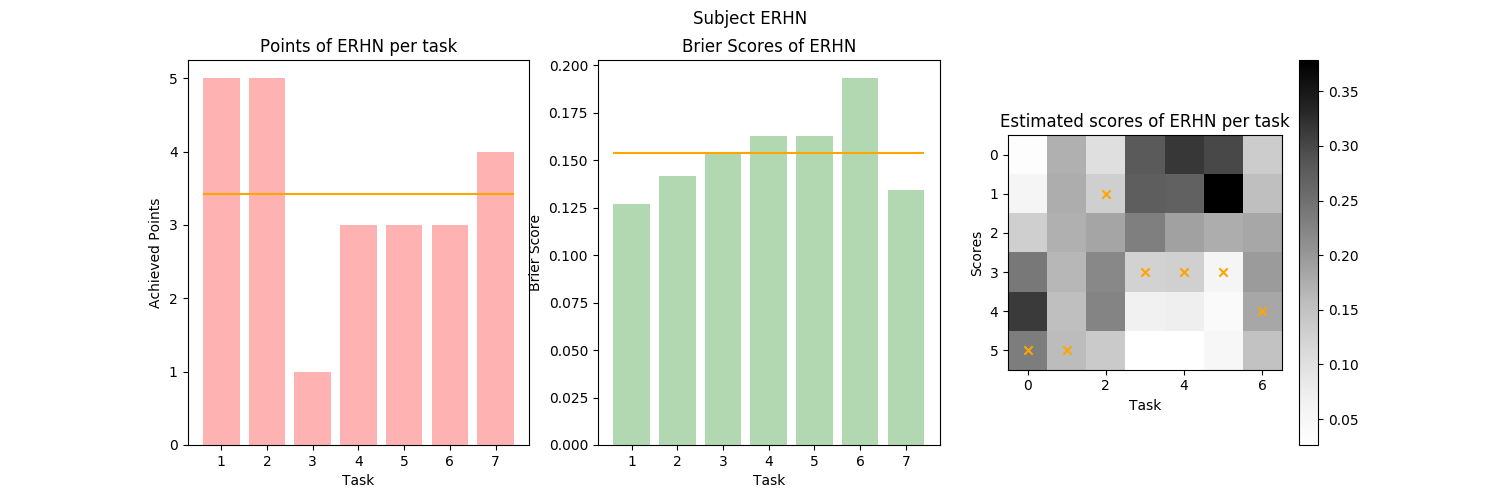
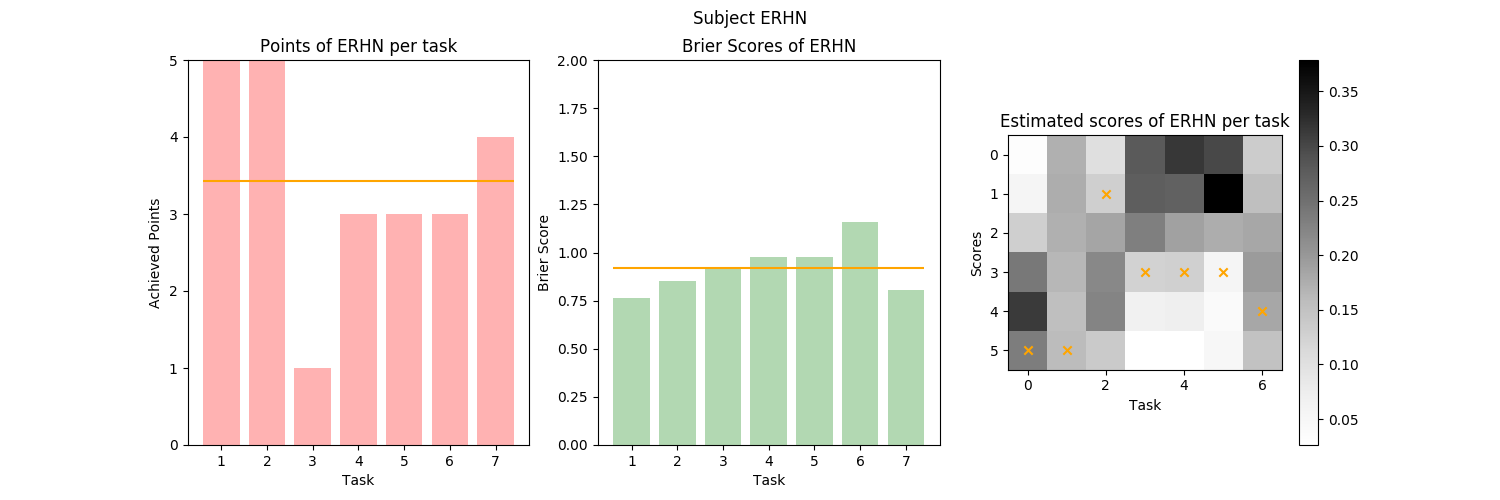
Added another evaluation function && updated report

diff --git a/report/acs_report_frisch_gehrke/sections/introduction.tex b/report/acs_report_frisch_gehrke/sections/introduction.tex
@@ -24,16 +24,15 @@
 		\captionsetup{justification=centering}
 		\includegraphics[width=0.5\textwidth]{../assets/d_dash.png}
 		\includegraphics[width=0.45\textwidth]{../assets/type1_roc.png}
-		\caption{The left side of this figure shows an example for the d' measurement, calculated as the difference between the (inverse of) the hit rate (HR) and the false alarm rate (FA). The right side displays an example for a type-2 ROC curve. [TODO: MAKE OWN PLOTS!]} 
+		\caption{The left side of this figure shows an example for the d' measurement, calculated as the difference between the (inverse of) the hit rate (HR) and the false alarm rate (FA). The right side displays an example for a type-2 ROC curve, displaying the relationship between FA2 and HR2. The area under the ROC, called \textit{AUROC} gives a measurement of a subject's metacognitive sensitivity.} 
 		\label{fig:d_dash_and_roc}
 	\end{figure}
 	Despite this advantage, $d'$ can not easily applied to the type-2 data, because it includes assumptions of gaussian distributions with equal variance, which is very unlikely to be the case in type-2 data, as shown by [x]. Experiments of these authors showed that it is indeed affected by changes in the metacognitive bias.\\
 	One way to remove this issue is the use of non-parametric analysis, that does not make these assumptions, e.g. the \textit{Receiver operating characteristic (ROC)} analysis [x] in classic SDT. This approach can be applied to type-2 data and an example is given in the right part of figure \ref{fig:d_dash_and_roc}\\
 	A further complication for using the above methods to measure metacognitive sensitivity is the fact that all these measures are affected by the task performance (HOW?) [x]. This can be addressed by explicitly modeling the connection between a subject's performance and metacognition in a model-based approach. The \textit{meta-$d'$} measure [x] makes use of the fact that given gaussian variance assumptions at type-1 level, the shapes of the type-2 distributions are known even if they are not themselves gaussian. Therefore the optimal type-2 performance is constrained by one's type-1 performance. E.g. given a particular type-1 variance structure and bias, the form of the type-2 ROC can be completely determined. So, given a subject's actual type-2 performance, one could reconstruct the underlying type-1 sensitivity, labeled meta-$d'$ [x], that is robust to changes in the bias and recovers simulated changes in metacognitive sensitivity, e.g. by altering task difficulties. For a metacognitive ideal observer, meta-$d'$ should be equal to $d'$. To measure this quantity, [x] defined \textit{metacognitive efficiency} as the ratio of meta-$d'/d'$, or by the more stable variants meta-$d'-d'$ or $log$meta-$d'/d'$. However, this measurement is unable to discriminate between different causes of a change in metacognitive efficiency. For example,  trial-to-trial variability in the placement of confidence criteria results in decreasing efficiency as well as additional noise in the evidence used to make the confidence rating. A similar bias-free approach to model metacognitive accuracy is the \textit{Stochastic Detection and Retrieval Model (SDRM)} which we do not want to cover here.\\
-	A somewhat different approach uses so-called \textit{one-shot} discrepancy measures to quantify metacognition [x]. A general confidence rating (e.g. asked before the trial) is compared to the actual performance on a variety of tasks, but it should be clear from the above (WHY?) that using a single rating of performance will not result in a good distinction between the bias and sensitivity, nor will it enable to measure the efficiency. In contrast, collecting trial-by-trial measures of performance and metacognitive judgments allows to get a picture of an individuals bias, sensitivity and efficiency.\\
+	A somewhat different approach uses so-called \textit{one-shot} discrepancy measures to quantify metacognition [x]. A general confidence rating (e.g. asked before the trial) is compared to the actual performance on a variety of tasks, but it should be clear from the above that using a single rating of performance will not result in a good distinction between the bias and sensitivity, nor will it enable to measure the efficiency. In contrast, collecting trial-by-trial measures of performance and metacognitive judgments allows to get a picture of an individuals bias, sensitivity and efficiency.\\
 	To get a different view-point on the domain, one could formalize metacognitive confidence as the ability to make good probability judgments directed towards the accuracy of one's own actions.
 	
-	\newpage
 	\subsection{Formalizing metacognition as probability judgments}
 	
 	In this framework \textit{metacognition} gets a normative interpretation as the accuracy of a probability judgment about one's own performance and one advantage is the possibility to elicit a meaningful measure of the bias. A lot of literature is a available on how to measure this accuracy, but in the following we want to focus on one of them, called the \textit{Brier Score}. To define this score, [x] first defined the \textit{Probability Score (PS)} as the squared difference between a probability rating $f$ for an event, and it's actual occurrence $c$ (0 or 1 for binary events):
@@ -67,7 +66,12 @@
 		\includegraphics[width=0.55\textwidth]{../assets/calibration_curve.png}
 		\caption{TODO: CAPTION} 
 		\label{fig:calibration}
-	\end{figure}\\
+	\end{figure}
+	For multiple possible outcome classes, the brier score can be calculated as shown by [x] by summing over all classes $j$:
+	\begin{displaymath}
+		BS = \frac{1}{N}\sum_j\sum_i(f_{ij} - c_{ij})^2
+	\end{displaymath}
+	Note that this formulation does have a range of scores from 0.0 to 2.0, where the analogue values of the one-class formulation are twice as high, e.g. a brier score of 0.5 in the one-class case would correspond to a score of 1.0 in the multi-class formulation.\\
 	The next chapter gives explains our methods to actually capture a subjects confidence and calculate a measure of the brier score out of it. We present an experiment that we evaluated on several subjects for different tasks, before we display the results of our measurements in chapter \ref{sec:results} and finally come to a conclusion on our attempt to measure metacognition in chapter \ref{sec:discussion}.
 	
 

diff --git a/report/acs_report_frisch_gehrke/sections/results.tex b/report/acs_report_frisch_gehrke/sections/results.tex
@@ -33,7 +33,34 @@ We did individual evaluations of our subjects' task performance, brier scores an
 	\caption{Example graphic of our individual evaluations for subject \textit{ERHN}. We again plotted the achieved discrete scores per task on the left and the calculated brier-scores per task in the middle. The orange line displays the mean values for both bar plots, averaged over all tasks. The subject's estimated discrete probabilities of achieving a score are shown in the right graphic, where the orange x marks the actual achieved score in the task. [TODO: FIX X-RANGE OF RIGHT PLOT!]. One could already conclude a tendency of this subject to give underconfident ratings.}
 	\label{fig:erhn_results} 
 \end{figure}
-\subsection{Overal Confidence}
+\subsection{Confidence Plots}
+To get more compact insights about our subjects' confidence, we also created scatter plots of the type (Expected Rating) vs (Actual Rating), see figure \ref{fig:erhn_confidence} for an example. A subject's expected rating for a task is calculated out of one column of his or her probability matrix, see the above subsection for an example. The individual plots for all our subjects can be found in appendix \ref{appendix:individual_evaluations}.
+\begin{figure}[h]
+	\centering
+	\captionsetup{justification=centering}
+	\includegraphics[width=\textwidth]{../assets/ERHN_calibration.png}
+	\caption{Example graphic of our individual evaluations on the confidence of subject \textit{ERHN}. We created a scatter plot with the subject's expected rating for each task on the x-axis and his or her actual achieved rating on the y-axis. Optimal confidence is indicated by the solid black line, where expectation meets the actual outcome. Scatter plots of tasks above this line indicate underconfidence for a task, while scatter plots below the line are a sign of overconfidence.}
+	\label{fig:erhn_confidence} 
+\end{figure}
+These average confidence per task is also displayed in figure \ref{fig:avg_confidence}.
+\begin{figure}[h]
+	\centering
+	\captionsetup{justification=centering}
+	\includegraphics[width=\textwidth]{../assets/average_calibration.png}
+	\caption{Scatter plot of average (Expected Rating) vs (Actual Rating) relationship with error bars in both dimensions. Note that the errors are not actual lines around the scores, but the ratings are very likely to be inside the ellipsoids spanned by these standard deviation error bars.}
+	\label{fig:avg_confidence} 
+\end{figure}
+Because we might have found a coincidence between the performance on a task and the confidence of a subject about his rating, we try to get further insights into this by our next evaluation, presented in the next subsection.
 \subsection{Task performance vs Brier Score}
-\subsection{Calibrations}
+To further examine a possible relationship as stated above, we also show the average relationship of (Task Performance) vs (Brier Score) in figure \ref{fig:tp_vs_bs}.
+\begin{figure}[h]
+	\centering
+	\captionsetup{justification=centering}
+	%\includegraphics[width=\textwidth]{../assets/average_calibration.png}
+	\caption{TODO: CAPTION}
+	\label{fig:tp_vs_bs} 
+\end{figure}
+\subsection{Overal Estimation}
+We also asked our subjects to draw their confidence about the overall performance on the questionnaire. The plots can be found in the filled questionnaires in appendix \ref{appendix:filled_questionaires}, but are not used in our evaluations. The values of these pdfs could be used in further experiments on the topic.
+
 \end{document}

diff --git a/src/brier_vs_rating_evaluation.py b/src/brier_vs_rating_evaluation.py
@@ -1,5 +1,9 @@
 import src.utils
+import sys
+import numpy as np
+import matplotlib.pyplot as plt
 from src.data_reader import read_csv_files
+from sklearn.linear_model import LinearRegression
 
 __author__ = 'Yannik P. Frisch, Maximilian A. Gehrke'
 __date__ = '12-03-2020'
@@ -17,4 +21,54 @@ subjects, subject_task_scores, subject_brier_scores, subject_probs, max_score = 
 
 # --------------- EVALUATE DATA --------------- #
 def plot_rating_vs_brier():
-    ...
+
+    # -------------------- Gather Data --------------------
+
+    # (task x subject) matrix of brier scores
+    brier_scores_matrix = np.empty(shape=(1, len(subject_task_scores.get(subjects[0]))))
+    # (task x subject) matrix of task scores
+    task_scores_matrix = np.empty(shape=(1, len(subject_task_scores.get(subjects[0]))))
+    for s in subjects:
+        brier_scores_matrix = np.concatenate((brier_scores_matrix,
+                                              np.array(list(subject_brier_scores.get(s).values())).reshape(1, -1)),
+                                             axis=0)
+        task_scores_matrix = np.concatenate((task_scores_matrix,
+                                             np.array(list(subject_task_scores.get(s).values())).reshape(1, -1)),
+                                            axis=0)
+    # Delete initial rows
+    brier_scores_matrix = np.copy(brier_scores_matrix[1:, :])
+    task_scores_matrix = np.copy(task_scores_matrix[1:, :])
+
+    # Get averages
+    avg_brier_per_task = np.mean(brier_scores_matrix, axis=0).reshape(-1, 1)
+    avg_score_per_task = np.mean(task_scores_matrix, axis=0).reshape(-1, 1)
+
+    # Fit linear regression function
+    reg = LinearRegression().fit(avg_score_per_task, avg_brier_per_task)
+    reg.score(avg_score_per_task, avg_brier_per_task)
+
+    # Plot values and linear fit
+    plt.figure(figsize=(10, 5))
+    plt.title("Task Score vs Brier Score")
+    color = plt.get_cmap('rainbow', len(avg_brier_per_task))
+    colors = color(np.linspace(0, 1, len(avg_brier_per_task)))
+    for t in range(0, len(avg_brier_per_task)):
+        task_color = colors[t].reshape(1, -1).squeeze()
+        plt.scatter(avg_score_per_task[t], avg_brier_per_task[t], label=f'Task {t+1}', c=task_color)
+    xs = np.linspace(min(avg_score_per_task), max(avg_score_per_task), 100)
+    ys = np.array([reg.predict(x.reshape(1, -1)) for x in xs]).reshape(-1, 1)
+    plt.plot(xs, ys, color='black', ls='--', label='Regression fit')
+    plt.legend()
+    plt.xlabel("Average task score")
+    plt.ylabel("Average brier score")
+
+
+print(f'# Plotting and saving data ... ', end=f'')
+sys.stdout.flush()
+
+
+plot_rating_vs_brier()
+plt.savefig(f'assets/plots/brier_vs_rating.png')
+
+
+print(f'Done!')
